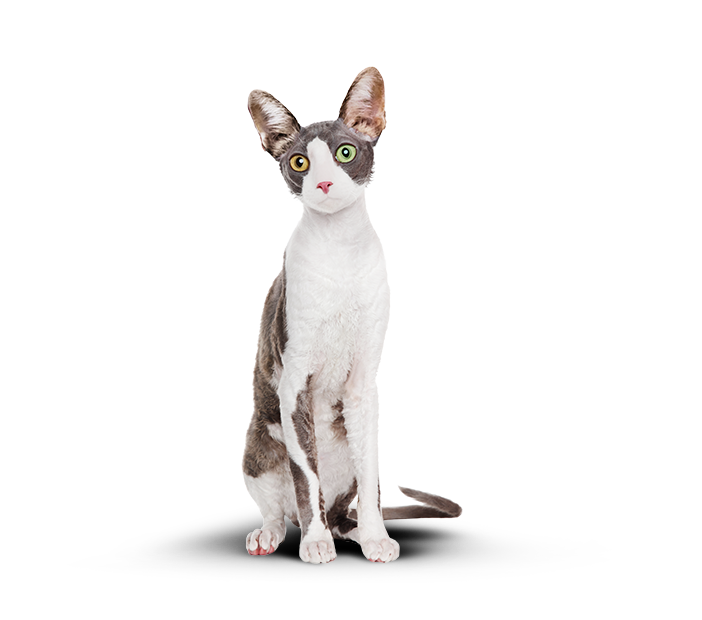
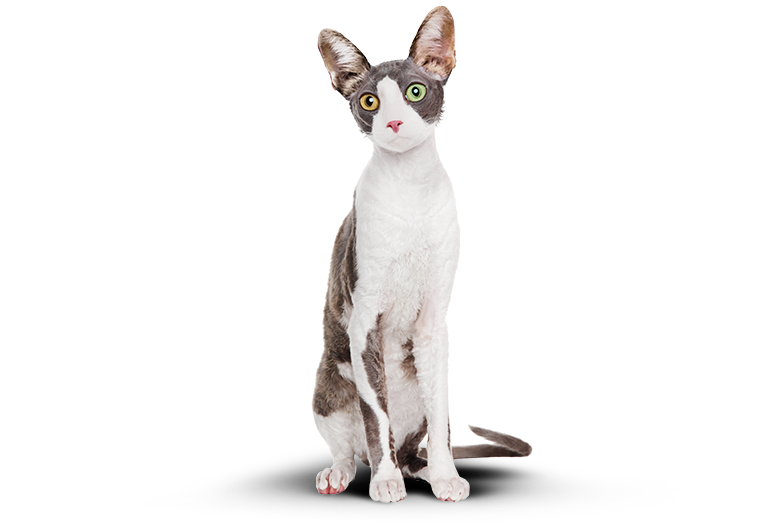
Add behavior for slider

Changed region(s): [[0.2393, 0.0, 0.7179, 0.9808]]

diff --git a/source/less/blocks/example-section.less b/source/less/blocks/example-section.less
@@ -27,7 +27,7 @@
   padding: 27px 0 36px 0;
 
   @media @tablet {
-    padding: 43px 30px 70px 30px;
+    padding: 43px 0 70px 0;
   }
 
   @media @desktop {
@@ -41,7 +41,7 @@
   padding: 0 20px;
 
   @media @tablet {
-    padding: 0;
+    padding: 0 30px;
   }
 }
 
@@ -198,52 +198,64 @@
 
 .example-section__demo {
   position: relative;
-  margin-top: 41px;
+  margin-top: 34px;
+  padding-top: 272px;
 
   @media @tablet {
-    margin-top: 67px;
+    margin-top: 80px;
+    padding-top: 507px;
+  }
+}
+
+.example-section__image-container {
+  position: absolute;
+  height: 257px;
+  top: 0;
+  overflow: hidden;
+
+  &--front {
+    width: 50%;
+    left: calc(50% - 160px);
+    right: auto;
+
+    @media @tablet {
+      left: calc(50% - 384px);
+    }
+
+    .example-section__image {
+      left: 0;
+      right: auto;
+    }
+  }
+
+  &--back {
+    width: 50%;
+    left: auto;
+    right: calc(50% - 160px);
+
+    @media @tablet {
+      right: calc(50% - 384px);
+    }
+
+    .example-section__image {
+      left: auto;
+      right: 0;
+    }
+  }
+
+  @media @tablet {
+    height: 522px;
   }
 }
 
 .example-section__image {
   display: block;
-  max-width: 320px;
-  top: -7px;
+  position: absolute;
+  width: 320px;
   left: calc(50% - 160px);
 
-  &--front {
-    position: absolute;
-    background-color: @background-dark-grey;
-
-    @media @tablet {
-      top: 0;
-      left: 0;
-      //TODO этот фон перекрывает толстого кота!
-      //background: linear-gradient(to top, @background-dark-grey 67%, @basic-white 50%);
-    }
-
-    @media @desktop {
-      top: 0;
-      left: 0;
-      //TODO этот фон перекрывает толстого кота!
-      background: linear-gradient(to top, @background-dark-grey 64%, @basic-white 50%);
-    }
-  }
-
-  &--back {
-    position: relative;
-
-    @media @tablet {
-      top: 0;
-      left: 0;
-      //TODO этот фон перекрывает тонкого кота!
-      //background: linear-gradient(to top, #eaeaea 67%, @basic-white 50%);
-    }
-
-    @media @desktop {
-      top: 0;
-      left: 0;
-    }
+  @media @tablet {
+    width: 768px;
   }
 }
 
@@ -251,8 +263,10 @@
   display: flex;
   justify-content: space-between;
   align-items: center;
-  margin: 8px auto 0 auto;
-  width: 196px;
+  position: relative;
+  left: 2px;
+  margin: 0 auto;
+  width: 197px;
 
   @media @tablet {
     width: 572px;
@@ -266,7 +280,7 @@
   }
 }
 
-.example-section__slider-scale {
+.example-section__slider-bar {
   position: relative;
   display: block;
   width: 84px;
@@ -283,12 +297,12 @@
   }
 }
 
-.example-section__slider-bar {
+.example-section__slider-handle {
   position: absolute;
   width: 35px;
   height: 6px;
   top: 3px;
-  left: 3px;
+  margin: 0 6px;
   background-color: @basic-green;
   border-radius: 6px;
 

diff --git a/source/index.html b/source/index.html
@@ -125,27 +125,29 @@
         </div>
       </div>
       <div class="example-section__demo">
-        <div class="example-section__image-container">
-          <picture class="example-section__image example-section__image--back">
-            <source media="(min-width: 768px)" srcset="#">
+        <div class="example-section__image-container example-section__image-container--back">
+          <picture class="example-section__image">
+            <source media="(min-width: 768px)"
+                    srcset="img/example-section/back-cat-tablet@1x.png 1x, img/example-section/back-cat-tablet@2x.png 2x">
             <img src="img/example-section/back-cat-mobile@1x.png"
-                 srcset="img/example-section/back-cat-mobile@2x.png 2x"
+                 srcset="img/example-section/back-cat-mobile@1x.png 1x, img/example-section/back-cat-mobile@2x.png 2x"
                  alt="">
           </picture>
         </div>
-        <div class="example-section__image-container">
-          <picture class="example-section__image example-section__image--front">
-            <source media="(min-width: 768px)" srcset="#">
+        <div class="example-section__image-container example-section__image-container--front">
+          <picture class="example-section__image">
+            <source media="(min-width: 768px)"
+                    srcset="img/example-section/front-cat-tablet@1x.png 1x, img/example-section/front-cat-tablet@2x.png 2x">
             <img src="img/example-section/front-cat-mobile@1x.png"
-                 srcset="img/example-section/front-cat-mobile@2x.png 2x"
+                 srcset="img/example-section/front-cat-mobile@1x.png 1x, img/example-section/front-cat-mobile@2x.png 2x"
                  alt="">
           </picture>
         </div>
         <div class="example-section__buttons">
           <button class="example-section__before-button button button--after-before" type="button">было</button>
           <div class="example-section__slider">
-            <div class="example-section__slider-scale">
-              <div class="example-section__slider-bar"></div>
+            <div class="example-section__slider-bar">
+              <div class="example-section__slider-handle"></div>
             </div>
           </div>
           <button class="example-section__after-button button button--after-before" type="button">стало</button>
@@ -330,5 +332,6 @@
   </div>
 </footer>
 <script src="js/menu.js"></script>
+<script src="js/slider.js"></script>
 </body>
 </html>

diff --git a/source/js/slider.js b/source/js/slider.js
@@ -1,0 +1,54 @@
+const afterButton = document.querySelector(".example-section__after-button");
+const beforeButton = document.querySelector(".example-section__before-button");
+const frontContainer = document.querySelector(".example-section__image-container--front");
+const backContainer = document.querySelector(".example-section__image-container--back");
+const sliderBar = document.querySelector(".example-section__slider-bar");
+const sliderHandle = document.querySelector(".example-section__slider-handle");
+
+afterButton.addEventListener("click", showAfter)
+beforeButton.addEventListener("click", showBefore)
+
+function showAfter() {
+  backContainer.style.width = "100%";
+  frontContainer.style.width = "0%";
+
+  sliderHandle.style.left = "auto";
+  sliderHandle.style.right = "0%";
+}
+
+function showBefore() {
+  backContainer.style.width = "0%";
+  frontContainer.style.width = "100%";
+
+  sliderHandle.style.left = "0%";
+  sliderHandle.style.right = "auto";
+}
+showBefore();
+
+
+sliderHandle.addEventListener("mousedown", onSideBarCatch);
+window.addEventListener("mouseup", onSideBarRelease);
+
+const sliderRange = calculateSliderRange();
+let initialPosition;
+function onSideBarCatch(e) {
+  initialPosition = e.clientX;
+  window.addEventListener("mousemove", onMouseMove);
+}
+
+function onSideBarRelease() {
+  window.removeEventListener("mousemove", onMouseMove);
+}
+
+function onMouseMove(e) {
+  const offset = Math.round(e.clientX - initialPosition);
+  const currentLeft = parseInt(window.getComputedStyle(sliderHandle).left)
+
+  sliderHandle.style.left = currentLeft + offset + "px";
+  // console.log(currentLeft)
+}
+
+
+function calculateSliderRange() {
+  return parseInt(window.getComputedStyle(sliderBar).width);
+}

diff --git a/source/less/blocks/offer-section.less b/source/less/blocks/offer-section.less
@@ -15,10 +15,10 @@
     content: "";
     display: block;
     position: absolute;
+    left: 50%;
     background-position: center top;
     background-repeat: no-repeat;
     background-size: cover;
-    left: 50%;
     transform: translateX(-50%);
     z-index: -1;
   }
@@ -27,9 +27,9 @@
     //TODO Графика должна быть подготовлена как минимум для двух вариантов экранов
     background-image: linear-gradient(@transparent-green, @transparent-green),
       url("../img/offer-section/cat-background.jpg");
+    top: 1px;
     width: 100%;
     height: 302px;
-    top: 1px;
 
     @media @tablet {
       display: none;
@@ -39,9 +39,9 @@
   &::after {
     //TODO Графика должна быть подготовлена как минимум для двух вариантов экранов
     background-image: url("../img/offer-section/offer-can-mobile.png");
+    top: 167px;
     width: 280px;
     height: 270px;
-    top: 167px;
 
     @media @tablet {
       top: 235px;

diff --git a/source/less/blocks/catalog-section.less b/source/less/blocks/catalog-section.less
@@ -208,19 +208,19 @@
     content: "";
     position: absolute;
     top: 39px;
-    left: 145px;
+    left: calc(50% - 15px);
     width: 30px;
-    border: @border-catalog-plus;
+    height: 2px;
+    background-color: #d3d3d3;
 
     @media @tablet {
       top: 83px;
-      left: 131px;
+      left: calc(50% - 30px);
       width: 60px;
     }
 
     @media @desktop {
       top: 79px;
-      left: 91px;
     }
   }
 
@@ -461,7 +461,7 @@
     content: "";
     position: absolute;
     top: 57px;
-    left: 101px;
+    left: calc(50% - 39px);
     background-image: url("../img/catalog-section/gift.svg");
     background-repeat: no-repeat;
     background-position: center;
@@ -470,11 +470,11 @@
 
     @media @tablet {
       top: 58px;
-      left: 79px;
+      left: calc(17% - 39px);
     }
 
     @media @desktop {
-      left: 85px;
+      left: calc(50% - 39px);
     }
   }
 }

diff --git a/source/js/menu.js b/source/js/menu.js
@@ -7,3 +7,5 @@ function onBurgerClick(e) {
   burger.classList.toggle("header__burger--closed-on-mobile");
   navigation.classList.toggle("header__navigation--closed-on-mobile");
 }
+
+onBurgerClick()
